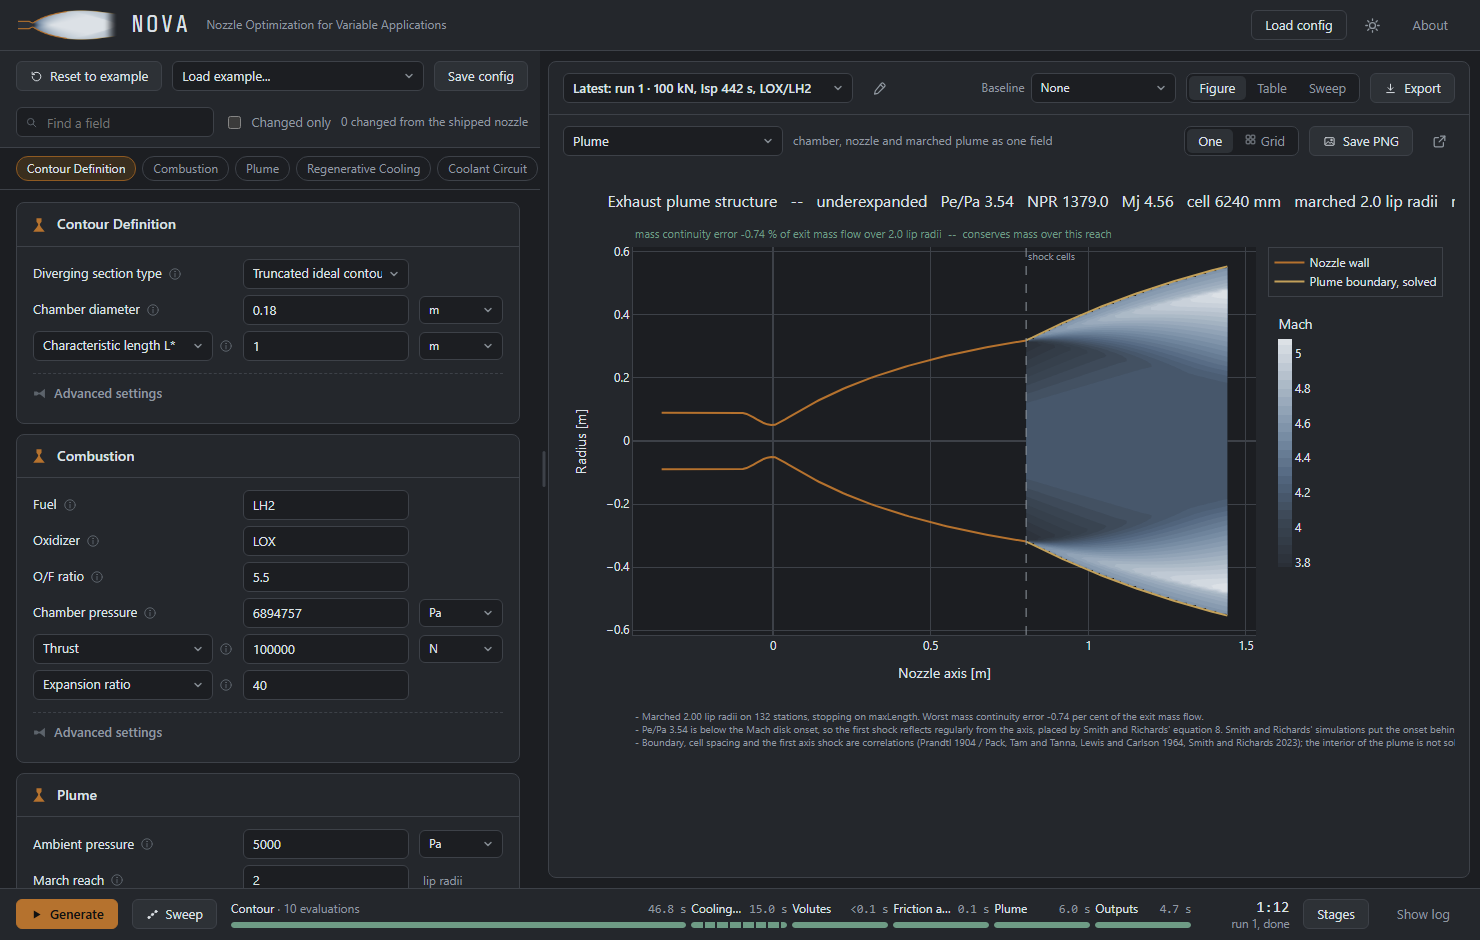
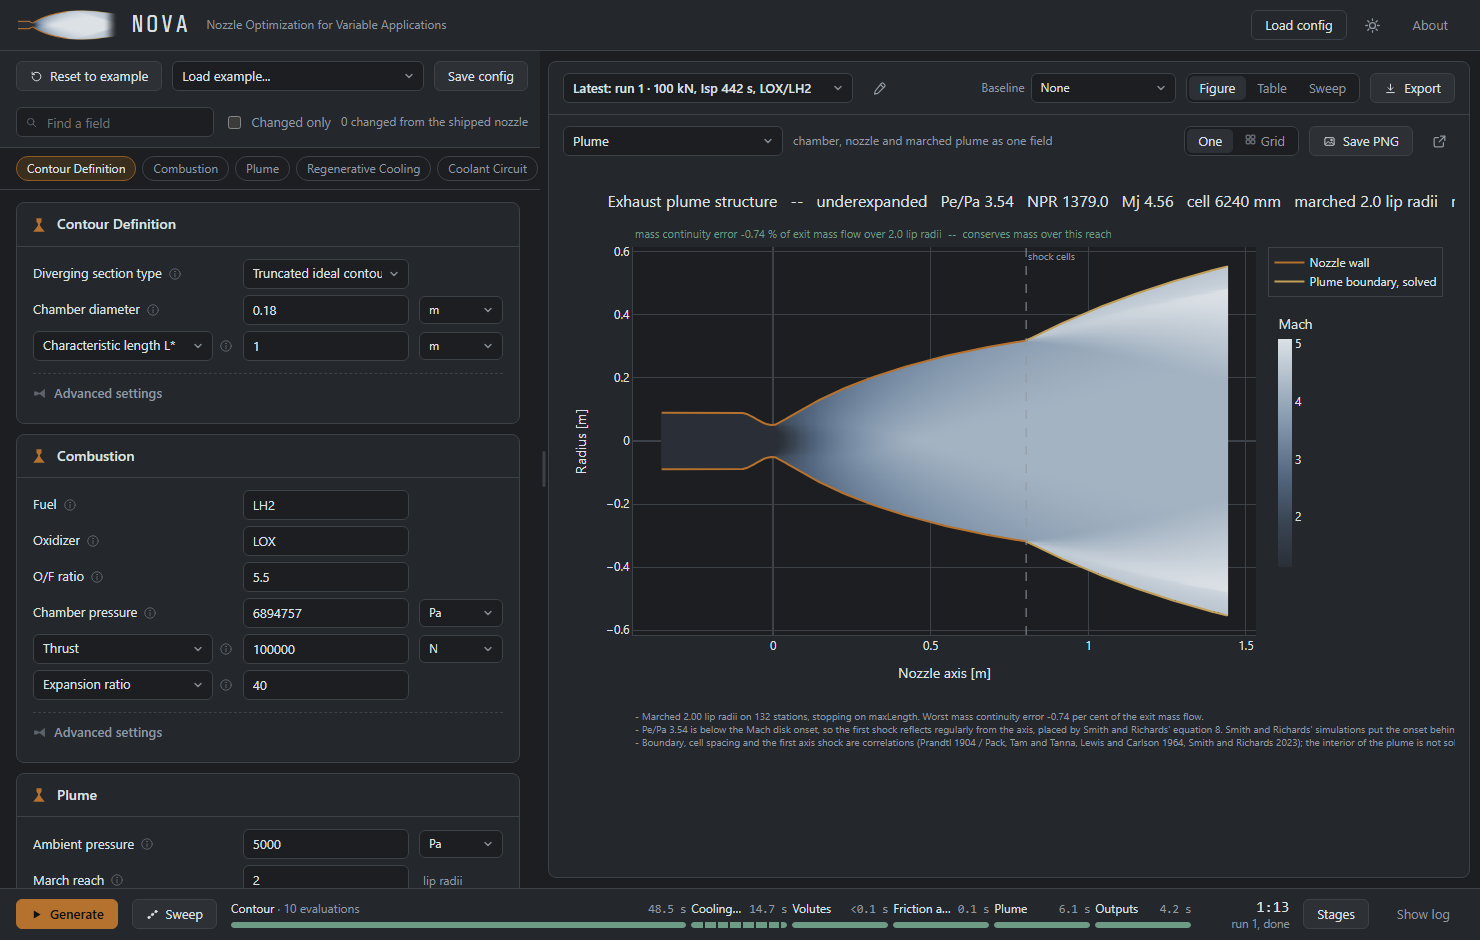
Shade the nozzle's Mach field inside the interactive plume
The interactive plume (plotlyPlume, the GUI's Plume view and
plumeStructureInteractive.html) shades the chamber's one-dimensional
answer, the characteristic mesh to the lip and the station march as one
Mach field, the nodes the static drawing shades. PlumeFigure carries the
nozzle's nodes to the lip and the supersonic Mach range, so the chamber
sits at the bottom color and the hover reads each cell's own Mach
number. The field is a heatmap on a square grid of filledFieldCells
cells, inside the wall to the lip and the solved boundary past it
(_plumeSceneGrid).

Where the march did not solve, both the interactive and the static
drawing shade the nozzle's field against the correlated boundary.
plumeSceneFigure and plumeFigure read the interior from one helper,
_nozzleInterior.

tests/testViewFigures.py checks the interior to the lip and the scale,
the heatmap from the injector face to the end of the march with the
chamber subsonic and nothing outside the wall, and the correlated case
in both renderings. The README's Plume view pictures are taken again.

Changed region(s): [[0.5284, 0.2777, 0.8392, 0.6479]]

diff --git a/src/NOVA/figures.py b/src/NOVA/figures.py
@@ -207,9 +207,12 @@ class PlumeFigure:
 
     The boundary is the station march's computed constant-pressure streamline when one was
     solved, and the correlated sinusoid when it was not; `boundarySource` says which, because the
-    two are different kinds of claim. The interior Mach field comes with the marched boundary and
-    is empty otherwise. The cell spacing and the Mach disk are always correlations, since the
-    march is isentropic and describes no shock.
+    two are different kinds of claim. The plume's Mach field comes with the marched boundary and
+    is empty otherwise. The nozzle's own Mach field to the lip, the chamber's one-dimensional
+    answer and the characteristic mesh, comes whenever the run kept them, so the plume is drawn as
+    the continuation of the flow inside the wall. `machRange` spans the supersonic flow, nozzle and
+    plume together, so the chamber sits at the bottom color. The cell spacing and the Mach disk
+    are always correlations, since the march is isentropic and describes no shock.
 
     `massDriftWorst` travels with the field and belongs on the figure whatever its value: it is
     the only thing separating a plume shape worth reading from one that is merely drawn.
@@ -236,6 +239,11 @@ class PlumeFigure:
     massDriftWorst: float = float('nan')           # [%], flux departure from the exit plane
     trustworthy: bool = False                      # whether that drift is inside tolerance
     reachMarched: float = 0.0                      # [-], lip radii the march covered
+    lipX: float = float('nan')                     # [m], where the wall ends and the plume begins
+    interiorX: np.ndarray = field(default_factory = lambda: np.array([]))   # [m], chamber and mesh nodes to the lip
+    interiorR: np.ndarray = field(default_factory = lambda: np.array([]))   # [m]
+    interiorMach: np.ndarray = field(default_factory = lambda: np.array([]))  # [-]
+    machRange: tuple = (float('nan'), float('nan'))  # (lowest, highest) [-] of the supersonic flow
 
 @dataclass
 class StitchedFieldFigure:
@@ -425,6 +433,23 @@ def plumeFigure(nozzle):
     # its envelope, the correlated boundary is what there is and the figure says so.
     field = getattr(nozzle, 'nozzlePlumeField', None)
     marched = field is not None and getattr(field, 'solved', False) and field.boundaryX.size > 1
+
+    # The flow inside the wall to the lip, which the plume continues, whichever boundary is drawn
+    lipX = float(field.lipX) if marched else float(getattr(structure, 'lipX', 0.0) or 0.0)
+    if not lipX and wallX.size:
+        lipX = float(np.max(wallX))
+    blocks = _nozzleInterior(nozzle, lipX)
+    interior = dict(lipX = lipX,
+                    interiorX = np.concatenate([x for x, _, _, _ in blocks]) if blocks else np.array([]),
+                    interiorR = np.concatenate([r for _, r, _, _ in blocks]) if blocks else np.array([]),
+                    interiorMach = np.concatenate([mach for _, _, mach, _ in blocks]) if blocks else np.array([]))
+    supersonic = [mach for _, _, mach, isSupersonic in blocks if isSupersonic and mach.size]
+    if marched and np.size(field.nodeMach):
+        supersonic.append(np.asarray(field.nodeMach, dtype = float))
+    if supersonic:
+        joined = np.concatenate(supersonic)
+        interior['machRange'] = (float(np.nanmin(joined)), float(np.nanmax(joined)))
+
     if marched:
         reach = ((field.solvedTo - field.lipX) / field.lipRadius
                  if field.lipRadius > 0.0 else 0.0)
@@ -446,6 +471,7 @@ def plumeFigure(nozzle):
             massDriftWorst = field.massDriftWorst,
             trustworthy = bool(field.trustworthy),
             reachMarched = reach,
+            **interior,
         )
 
     if field is not None and field.notes:
@@ -462,6 +488,7 @@ def plumeFigure(nozzle):
         jetType = structure.jetType,
         summary = summary,
         notes = notes,
+        **interior,
     )
 
 # Quantity key -> (Nozzle attribute, color bar label, plotly colorscale, figure title)
@@ -577,6 +604,29 @@ def _chamberField(nozzle):
     except (AttributeError, TypeError, ValueError):
         return None
 
+def _nozzleInterior(nozzle, lipX: float) -> list:
+
+    '''
+
+    The Mach field inside the wall to the lip, the flow a plume continues: the chamber's quasi
+    one-dimensional answer to the throat, painted across the radius, and the characteristic mesh
+    from the throat to the lip. A list of (x, r, mach, supersonic) blocks in metres, empty when the
+    run kept neither.
+
+    '''
+
+    blocks = []
+    chamber = _chamberField(nozzle)
+    if chamber is not None:
+        blocks.append((chamber['x'].ravel(), chamber['r'].ravel(), np.asarray(chamber['mach']).ravel(), False))
+    mesh = _meshNodes(nozzle, 'allMachNumbers')
+    if mesh is not None:
+        meshX, meshR, meshMach = mesh
+        keep = meshX <= lipX
+        blocks.append((meshX[keep], meshR[keep], meshMach[keep], True))
+
+    return blocks
+
 def stitchedFieldFigure(nozzle, quantity: str):
 
     '''
@@ -640,15 +690,7 @@ def plumeSceneFigure(nozzle):
     if wallX.size < 3 or wallR.size != wallX.size:
         return None
 
-    blocks = []
-    chamber = _chamberField(nozzle)
-    if chamber is not None:
-        blocks.append((chamber['x'].ravel(), chamber['r'].ravel(), np.asarray(chamber['mach']).ravel(), False))
-    mesh = _meshNodes(nozzle, 'allMachNumbers')
-    if mesh is not None:
-        meshX, meshR, meshMach = mesh
-        keep = meshX <= plume.lipX
-        blocks.append((meshX[keep], meshR[keep], meshMach[keep], True))
+    blocks = _nozzleInterior(nozzle, plume.lipX)
     blocks.append((np.asarray(plume.nodeX, dtype = float), np.asarray(plume.nodeR, dtype = float),
                    np.asarray(plume.nodeMach, dtype = float), True))
 
@@ -1051,41 +1093,73 @@ def plotlyField(data: StitchedFieldFigure, filled: bool = False):
     figure.update_layout(**layout)
     return figure
 
-def _plumeFieldGrid(data, axialPoints: int = 260, radialPoints: int = 130):
+def _plumeSceneGrid(data) -> tuple | None:
 
     '''
 
-    Resample the marched plume onto a rectangular grid, or None when there is no field.
+    The nozzle's Mach field and the marched plume's as one field on a regular grid, mirrored about
+    the axis, for a filled rendering: (x, r, mach), NaN outside the wall up to the lip and outside
+    the plume boundary past it. None when there is neither field.
 
-    The march puts its points at fixed fractions of a jet radius that changes station to station,
-    so the nodes are structured but not rectangular in (x, r) and plotly's contour needs
-    rectangular. Everything outside the jet boundary is left NaN so the fill stops at the
-    boundary rather than squaring off the jet.
+    The nodes are the ones the static drawing shades: the chamber's one-dimensional answer, the
+    characteristic mesh to the lip and the march's stations. They are kept as one set, so the field
+    has no seam of background at the throat or the lip. A cell takes the value interpolated
+    linearly inside their triangles, and the nearest node's value in the sliver between the
+    outermost nodes and the wall or the boundary. The cells are square, `filledFieldCells` of them,
+    so the grid follows the figure's proportions.
 
     '''
 
-    if data.fieldX.size < 4 or data.fieldMach.size != data.fieldX.size:
+    from scipy.interpolate import LinearNDInterpolator, NearestNDInterpolator
+
+    pieces = []
+    for x, r, mach in ((data.interiorX, data.interiorR, data.interiorMach), (data.fieldX, data.fieldR, data.fieldMach)):
+        x, r, mach = (np.asarray(array, dtype = float).ravel() for array in (x, r, mach))
+        if x.size and x.shape == r.shape == mach.shape:
+            keep = np.isfinite(x) & np.isfinite(r) & np.isfinite(mach)
+            pieces.append((x[keep], np.abs(r[keep]), mach[keep]))
+    if not pieces:
+        return None
+    nodeX, nodeR, nodeMach = (np.concatenate([piece[index] for piece in pieces]) for index in range(3))
+    if nodeX.size < 4:
         return None
 
-    from scipy.interpolate import griddata
+    # The outline: the wall to the lip, the solved boundary past it where the plume was marched
+    wallX, wallR = np.asarray(data.wallX, dtype = float), np.abs(np.asarray(data.wallR, dtype = float))
+    lipX = float(data.lipX) if np.isfinite(data.lipX) else (float(np.max(wallX)) if wallX.size else float(np.max(nodeX)))
+    keepWall = wallX <= lipX
+    outlineX, outlineR = wallX[keepWall], wallR[keepWall]
+    if data.fieldX.size > 3 and np.size(data.boundaryX) > 1:
+        boundaryX, boundaryR = np.asarray(data.boundaryX, dtype = float), np.abs(np.asarray(data.boundaryR, dtype = float))
+        past = boundaryX > lipX
+        outlineX, outlineR = np.concatenate([outlineX, boundaryX[past]]), np.concatenate([outlineR, boundaryR[past]])
+    if outlineX.size < 2:
+        return None
+    order = np.argsort(outlineX)
+    outlineX, outlineR = outlineX[order], outlineR[order]
 
-    axial = np.linspace(float(data.fieldX.min()), float(data.fieldX.max()), axialPoints)
-    edge = float(np.abs(data.boundaryR).max()) if data.boundaryR.size else float(data.fieldR.max())
-    radial = np.linspace(-edge, edge, radialPoints)
-    axialGrid, radialGrid = np.meshgrid(axial, radial)
+    start, end = float(min(outlineX[0], nodeX.min())), float(nodeX.max())
+    span = float(np.max(outlineR[outlineX <= end])) if np.any(outlineX <= end) else float(np.max(outlineR))
+    if not (end > start and span > 0.0):
+        return None
+    cell = np.sqrt((end - start) * 2.0 * span / filledFieldCells)
+    x = np.linspace(start, end, max(int(round((end - start) / cell)), 50))
+    r = np.linspace(-span, span, max(int(round(2.0 * span / cell)), 30))
+    gridX, gridR = np.meshgrid(x, r)
+    radius = np.abs(gridR)
+    inside = radius <= np.interp(gridX, outlineX, outlineR)
 
-    # The solve is one half plane, so it is mirrored before interpolating rather than after.
-    points = np.column_stack([np.concatenate([data.fieldX, data.fieldX]),
-                              np.concatenate([data.fieldR, -data.fieldR])])
-    values = np.concatenate([data.fieldMach, data.fieldMach])
-    machGrid = griddata(points, values, (axialGrid, radialGrid), method = 'linear')
+    # The solve is one half plane: the grid's radius is read as its distance from the axis
+    points = np.column_stack([nodeX, nodeR])
+    query = np.column_stack([gridX[inside], radius[inside]])
+    linear = LinearNDInterpolator(points, nodeMach)(query)
+    missing = ~np.isfinite(linear)
+    if missing.any():
+        linear[missing] = NearestNDInterpolator(points, nodeMach)(query[missing])
+    values = np.full(gridX.shape, np.nan)
+    values[inside] = linear
 
-    if data.boundaryX.size > 1:
-        order = np.argsort(data.boundaryX)
-        localEdge = np.interp(axialGrid, data.boundaryX[order], data.boundaryR[order])
-        machGrid = np.where(np.abs(radialGrid) <= localEdge, machGrid, np.nan)
-
-    return axial, radial, machGrid
+    return x, r, values
 
 def plotlyPlume(data):
 
@@ -1100,16 +1174,20 @@ def plotlyPlume(data):
 
     figure = go.Figure()
 
-    # The interior goes down first so the wall, the boundary and the Mach disk draw over it.
-    grid = _plumeFieldGrid(data)
+    # The field goes down first so the wall, the boundary and the Mach disk draw over it. Its scale
+    # spans the supersonic flow, as the static drawing's does; the chamber sits at the bottom color
+    # and its hover reads its own Mach number.
+    grid = _plumeSceneGrid(data)
     if grid is not None:
         axialGrid, radialGrid, machGrid = grid
-        figure.add_trace(go.Contour(
-            x = axialGrid, y = radialGrid, z = machGrid, ncontours = 40,
-            colorscale = figurePalette.plotlyColorscale('mach'), connectgaps = False,
-            contours = dict(coloring = 'fill', showlines = False),
-            colorbar = dict(title = 'Mach', thickness = 14, len = 0.7),
-            name = 'Mach field', hoverinfo = 'skip'))
+        lowest, highest = data.machRange
+        if not (np.isfinite(lowest) and np.isfinite(highest) and highest > lowest):
+            lowest, highest = float(np.nanmin(machGrid)), float(np.nanmax(machGrid))
+        figure.add_trace(go.Heatmap(
+            x = axialGrid, y = radialGrid, z = machGrid.astype(np.float32), zmin = lowest, zmax = highest,
+            colorscale = figurePalette.plotlyColorscale('mach'), zsmooth = False, hoverongaps = False,
+            colorbar = dict(title = 'Mach', thickness = 14, len = 0.7), name = 'Mach field', showlegend = False,
+            hovertemplate = 'x %{x:.3f} m<br>r %{y:.3f} m<br>Mach %{z:.3f}<extra></extra>'))
 
     if data.wallX.size:
         for sign in (1.0, -1.0):

diff --git a/tests/testViewFigures.py b/tests/testViewFigures.py
@@ -7,7 +7,8 @@ The figure descriptions behind the GUI's flow, plume and cooling views, and the 
 A flow field runs from the injector face to the exit plane: the quasi one-dimensional chamber
 upstream of the throat, the characteristic mesh from the throat to the exit plane of the wall that
 is built, never the mesh a truncated contour carries past it. The plume scene is one Mach field
-from the chamber through the nozzle and into the march, on a scale set by the supersonic flow. The
+from the chamber through the nozzle and into the march, on a scale set by the supersonic flow, and
+the interactive plume shades the same field, the nozzle's alone where the march did not solve. The
 cooling views draw from the jacket's station arrays, the film arrays and the extension solution.
 
 The descriptions are checked on a synthetic nozzle, which is all they read; the views are drawn on
@@ -29,7 +30,7 @@ for path in (root, os.path.join(root, 'src')):
     if path not in sys.path:
         sys.path.insert(0, path)
 
-from NOVA.figures import PlumeFigure, plotlyField, plotlyPlume, plumeSceneFigure, stitchedFieldFigure
+from NOVA.figures import PlumeFigure, plotlyField, plotlyPlume, plumeFigure, plumeSceneFigure, stitchedFieldFigure
 
 def _syntheticNozzle(**extra):
 
@@ -96,7 +97,7 @@ def _plume(solved = True):
     return types.SimpleNamespace(
         solved = solved, nodeX = x.ravel(), nodeR = r.ravel(), nodeMach = np.full(x.size, 4.6),
         boundaryX = x[:, -1], boundaryR = r[:, -1], lipX = 0.60, lipRadius = 0.31, solvedTo = 0.90,
-        lipPressureRatio = 1.4, massDriftWorst = -0.3, trustworthy = True)
+        lipPressureRatio = 1.4, massDriftWorst = -0.3, trustworthy = True, notes = [])
 
 def testThePlumeSceneIsOneFieldFromTheChamberThroughTheMarch():
     nozzle = _syntheticNozzle(nozzlePlumeField = _plume(), plumeAmbientPressure = 20000.0, nozzlePlumeStructure = None)
@@ -113,6 +114,35 @@ def testThePlumeSceneIsOneFieldFromTheChamberThroughTheMarch():
 def testAPlumeThatDidNotMarchHasNoScene():
     nozzle = _syntheticNozzle(nozzlePlumeField = _plume(solved = False))
     assert plumeSceneFigure(nozzle) is None
+
+def _structure():
+
+    '''The correlated plume structure the plume figure reads, its boundary leaving the 0.60 m lip.'''
+
+    x = np.linspace(0.60, 2.0, 30)
+    return types.SimpleNamespace(
+        jetType = 'underexpanded', exitPressureRatio = 1.4, nozzlePressureRatio = 350.0, fullyExpandedMach = 4.3,
+        shockCellLength = 0.9, notes = [], cellX = np.array([0.60, 1.5]), machDiskX = 0.0, machDiskDiameter = 0.0,
+        machDiskPresent = False, boundaryX = x, boundaryR = 0.31 + 0.05 * np.sin(np.pi * (x - 0.60) / 0.9) ** 2,
+        lipX = 0.60)
+
+def testThePlumeFigureCarriesTheFlowInsideTheWallToTheLip():
+    nozzle = _syntheticNozzle(nozzlePlumeField = _plume(), nozzlePlumeStructure = _structure())
+    data = plumeFigure(nozzle)
+    assert data.boundarySource == 'marched' and data.lipX == pytest.approx(0.60)
+    # The chamber's one-dimensional answer from the injector face, the mesh to the lip and no further
+    assert data.interiorX.min() == pytest.approx(nozzle.xNozzleWall[0]) and data.interiorX.max() <= 0.60
+    # The scale spans the supersonic flow either side of the lip; the subsonic chamber sits below it
+    assert data.interiorMach.min() < 1.0
+    assert data.machRange[0] >= 1.0 and data.machRange[1] == pytest.approx(4.6)
+
+def testAPlumeThatDidNotMarchStillCarriesTheNozzlesFlow():
+    nozzle = _syntheticNozzle(nozzlePlumeField = _plume(solved = False), nozzlePlumeStructure = _structure())
+    data = plumeFigure(nozzle)
+    assert data.boundarySource == 'correlated' and data.fieldX.size == 0
+    assert data.interiorX.size and data.interiorX.max() <= 0.60
+    supersonic = data.interiorMach[data.interiorMach >= 1.0]
+    assert data.machRange[1] == pytest.approx(float(supersonic.max()))
 
 #--------------------------------------------------------------------------------------------------------------------------#
 # -- The interactive renderings -- #
@@ -147,6 +177,31 @@ def testTheInteractivePressureIsShadedOnALogarithmicScale():
     ticks = 10.0 ** np.asarray(bar.tickvals)
     mantissas = ticks / 10.0 ** np.floor(np.log10(ticks) + 1e-9)
     assert ticks.size >= 3 and np.all(np.isclose(mantissas[:, None], [1.0, 2.0, 5.0]).any(axis = 1))
+
+def _heatmap(figure):
+    [field] = [trace for trace in figure.data if trace.type == 'heatmap']
+    return np.asarray(field.x), np.asarray(field.y), np.asarray(field.z, dtype = float), field
+
+def testTheInteractivePlumeShadesTheNozzleAndTheMarchAsOneField():
+    nozzle = _syntheticNozzle(nozzlePlumeField = _plume(), nozzlePlumeStructure = _structure())
+    data = plumeFigure(nozzle)
+    x, r, mach, field = _heatmap(plotlyPlume(data))
+    # From the injector face to the end of the march, on the scale of the supersonic flow
+    assert x[0] == pytest.approx(nozzle.xNozzleWall[0]) and x[-1] == pytest.approx(0.90)
+    assert field.zmin == pytest.approx(data.machRange[0]) and field.zmax == pytest.approx(4.6)
+    axis = int(np.argmin(np.abs(r)))
+    chamber, plume = x < -0.12, x > 0.63
+    # The chamber reads its own subsonic Mach number, and the plume the march's
+    assert np.all(mach[axis, chamber] < 1.0)
+    assert np.allclose(mach[axis, plume], 4.6, atol = 1e-6)
+    # Nothing is shaded outside the wall: in the chamber, past its 0.09 m radius
+    assert np.all(np.isnan(mach[np.ix_(np.abs(r) > 0.095, chamber)]))
+
+def testTheInteractivePlumeOfARunThatDidNotMarchShadesTheNozzle():
+    nozzle = _syntheticNozzle(nozzlePlumeField = _plume(solved = False), nozzlePlumeStructure = _structure())
+    x, _, mach, _ = _heatmap(plotlyPlume(plumeFigure(nozzle)))
+    assert x[0] == pytest.approx(nozzle.xNozzleWall[0]) and x[-1] <= 0.60 + 1e-9
+    assert np.isfinite(mach).any()
 
 def testOnlyTheFirstShockCellIsLabelled():
     data = PlumeFigure(wallX = np.array([0.0, 0.6]), wallR = np.array([0.05, 0.3]),
@@ -255,6 +310,16 @@ def testACoolingViewWithNothingToDrawSaysSo(name):
     from novaGui import thermalPlots
 
     assert _drawn(getattr(thermalPlots, name), _syntheticNozzle()).messageText
+
+def testTheStaticPlumeOfARunThatDidNotMarchShadesTheNozzle():
+    from novaGui.plotting import drawPlume
+
+    nozzle = _syntheticNozzle(nozzlePlumeField = _plume(solved = False), nozzlePlumeStructure = _structure())
+    for mode in ('dark', 'light'):
+        pane = _drawn(drawPlume, nozzle, mode = mode)
+        # The shading and its color bar beside the plot
+        assert pane.messageText is None and len(pane.figure.get_axes()) >= 2
+        assert pane.figure.get_axes()[0].collections
 
 @pytest.mark.parametrize('quantity', ['mach', 'pressure', 'temperature'])
 def testTheFieldViewDraws(quantity):

diff --git a/novaGui/plotting.py b/novaGui/plotting.py
@@ -391,7 +391,8 @@ def _drawCorrelatedPlume(pane, nozzle) -> None:
     '''
 
     The correlated plume structure against the nozzle contour, for a run whose march did not solve:
-    the correlated boundary over its whole length, the shock cells and the Mach disk.
+    the Mach field inside the wall where the run kept it, the correlated boundary over its whole
+    length, the shock cells and the Mach disk.
 
     '''
 
@@ -413,6 +414,23 @@ def _drawCorrelatedPlume(pane, nozzle) -> None:
                                  np.concatenate([data.fieldR, -data.fieldR]),
                                  np.concatenate([data.fieldMach, data.fieldMach]),
                                  levels = 60, cmap = _palette().colormap('mach', themeColors.mode))
+        _colorbar(pane, shading, ax, 'Mach number [-]')
+    elif np.size(data.interiorX) > 3 and data.wallX.size > 2:
+        # The flow inside the wall, which the correlated plume continues: shaded on the scale of the
+        # supersonic flow, so the chamber sits at the bottom color, and clipped to the wall
+        ax.grid(False)
+        lowest, highest = data.machRange
+        if not (np.isfinite(lowest) and np.isfinite(highest) and highest > lowest):
+            lowest, highest = float(np.min(data.interiorMach)), float(np.max(data.interiorMach))
+        wall = data.wallX <= data.lipX if np.isfinite(data.lipX) else np.ones(data.wallX.size, dtype = bool)
+        upperX, upperR = data.wallX[wall], np.abs(data.wallR[wall])
+        outline = np.column_stack([np.concatenate([upperX, upperX[::-1]]), np.concatenate([upperR, -upperR[::-1]])])
+        shading = ax.tricontourf(np.concatenate([data.interiorX, data.interiorX]),
+                                 np.concatenate([data.interiorR, -data.interiorR]),
+                                 np.concatenate([data.interiorMach, data.interiorMach]),
+                                 levels = np.linspace(lowest, highest, 120),
+                                 cmap = _palette().colormap('mach', themeColors.mode), extend = 'both')
+        _clipTo(ax, shading, outline)
         _colorbar(pane, shading, ax, 'Mach number [-]')
 
     if data.wallX.size:

diff --git a/README.md b/README.md
@@ -151,7 +151,7 @@ The flow fields run from the injector face to the exit plane: the one-dimensiona
 
 ![Mach field](docs/images/novaGui/viewMach.png)
 
-The plume view draws the nozzle and its plume as one Mach field: the chamber, the characteristic mesh and the station march past the lip, inside the wall and the solved plume boundary. It opens on the nozzle and the marched plume; zooming out shows the correlated shock cells past the march.
+The plume view draws the nozzle and its plume as one Mach field: the chamber, the characteristic mesh and the station march past the lip, inside the wall and the solved plume boundary. The scale spans the supersonic flow, so the chamber sits at the bottom color, and hovering reads the Mach number. It opens on the nozzle and the marched plume; zooming out shows the correlated shock cells past the march. Where the march did not solve, the view draws the nozzle's field and the correlated boundary.
 
 ![Plume](docs/images/novaGui/viewPlume.png)
 
